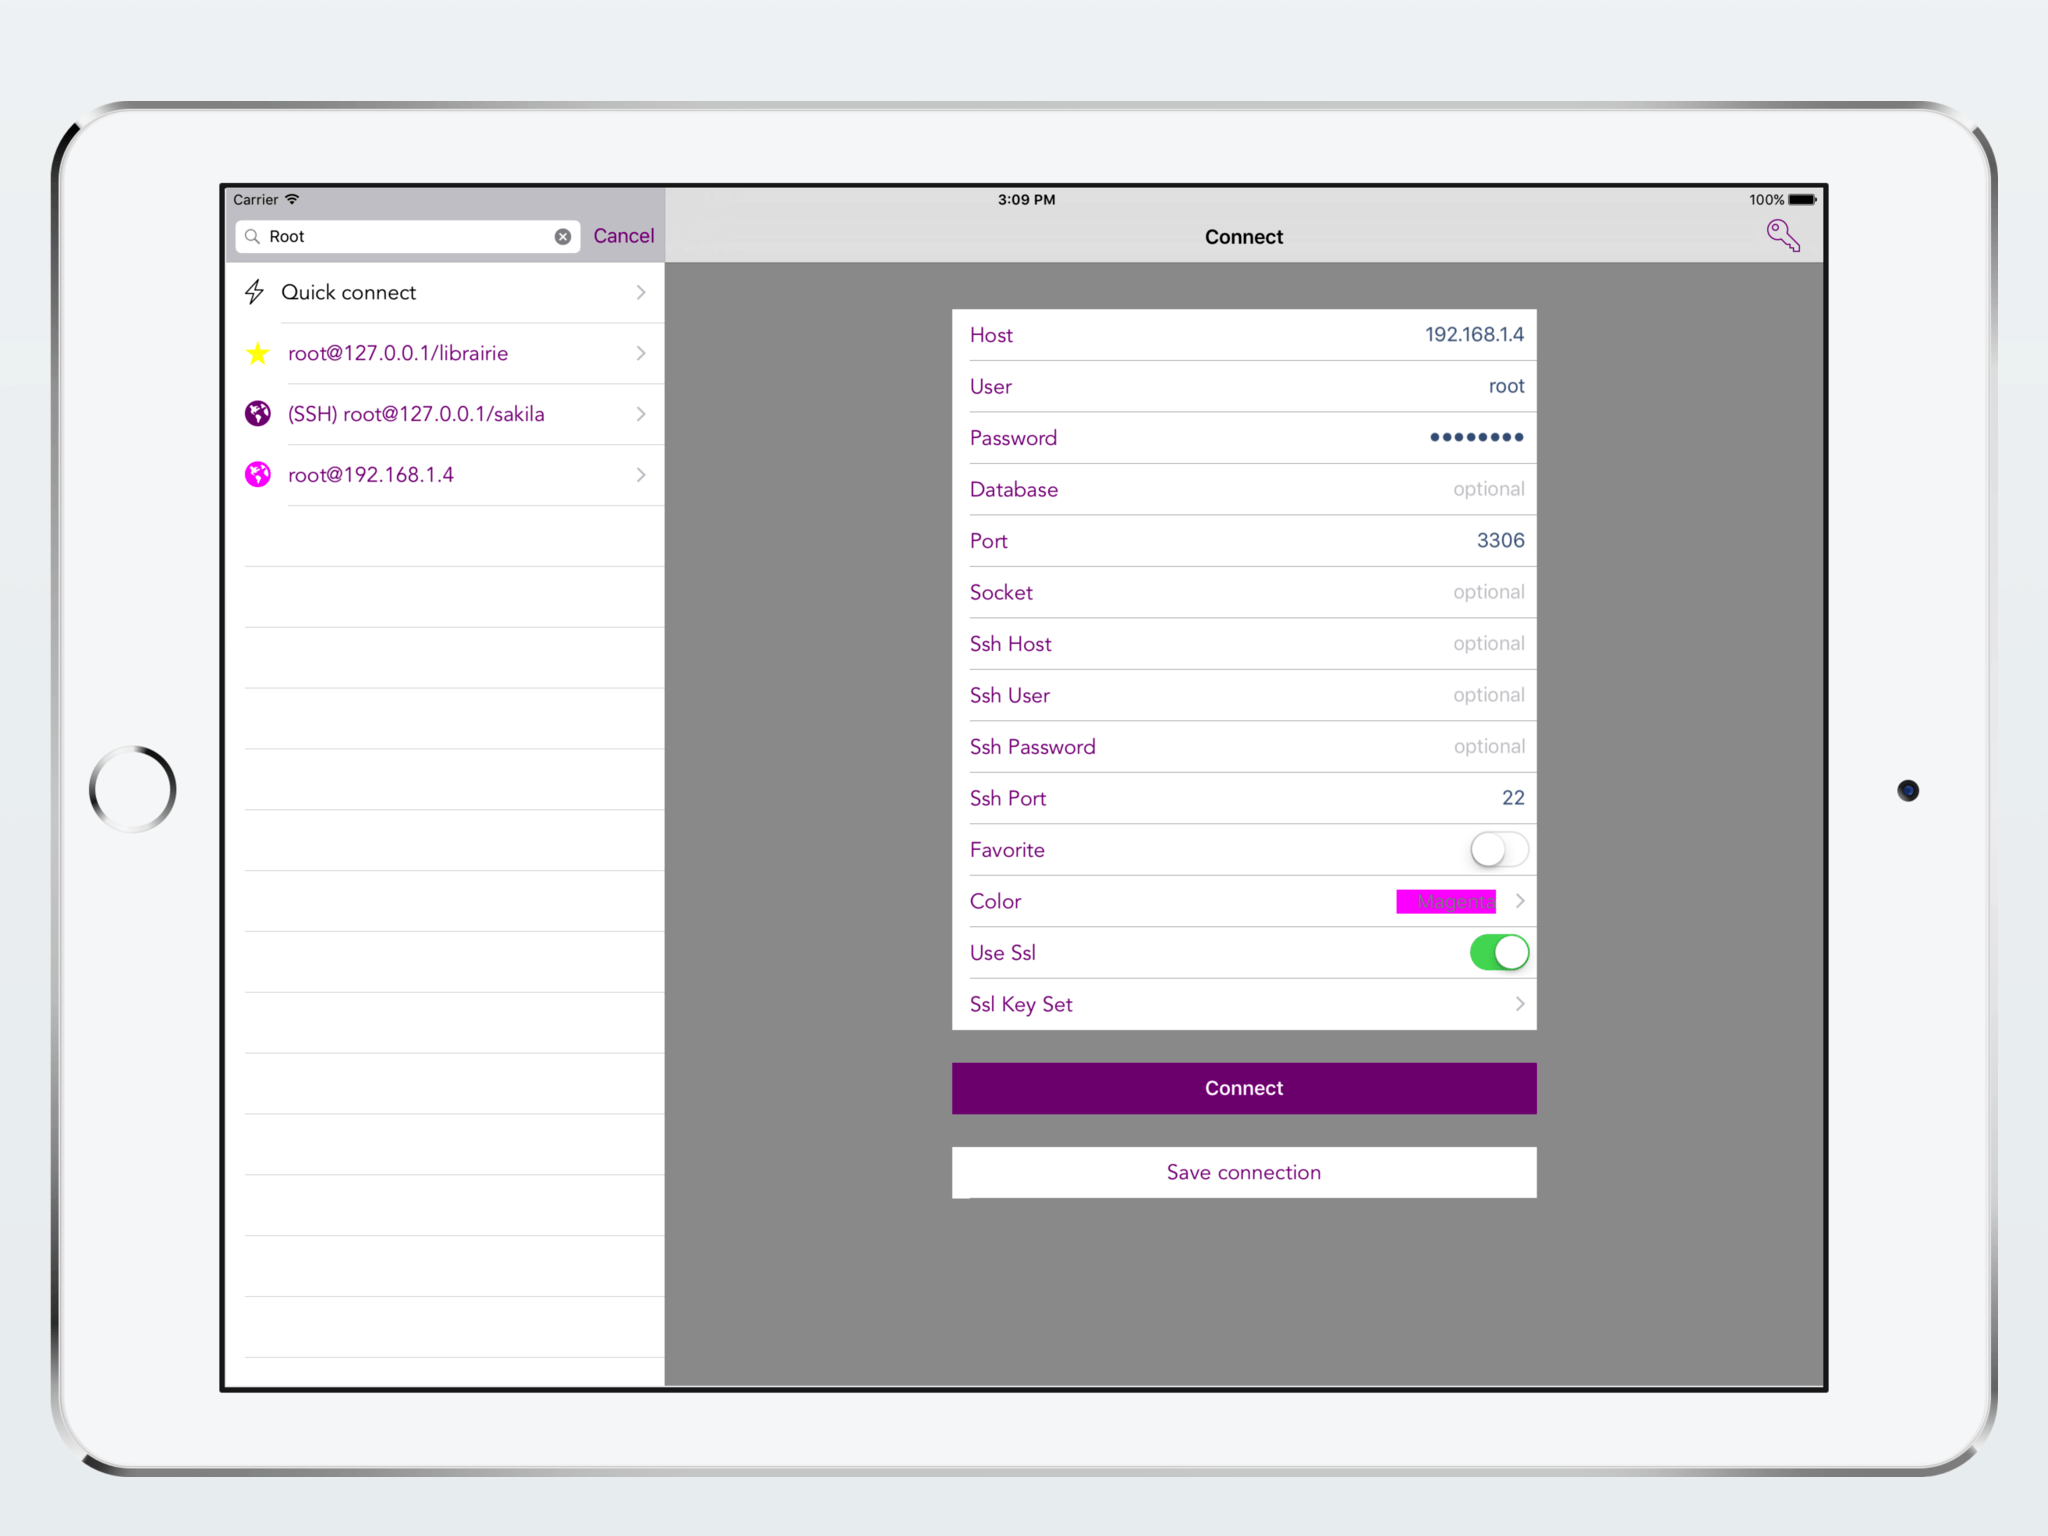
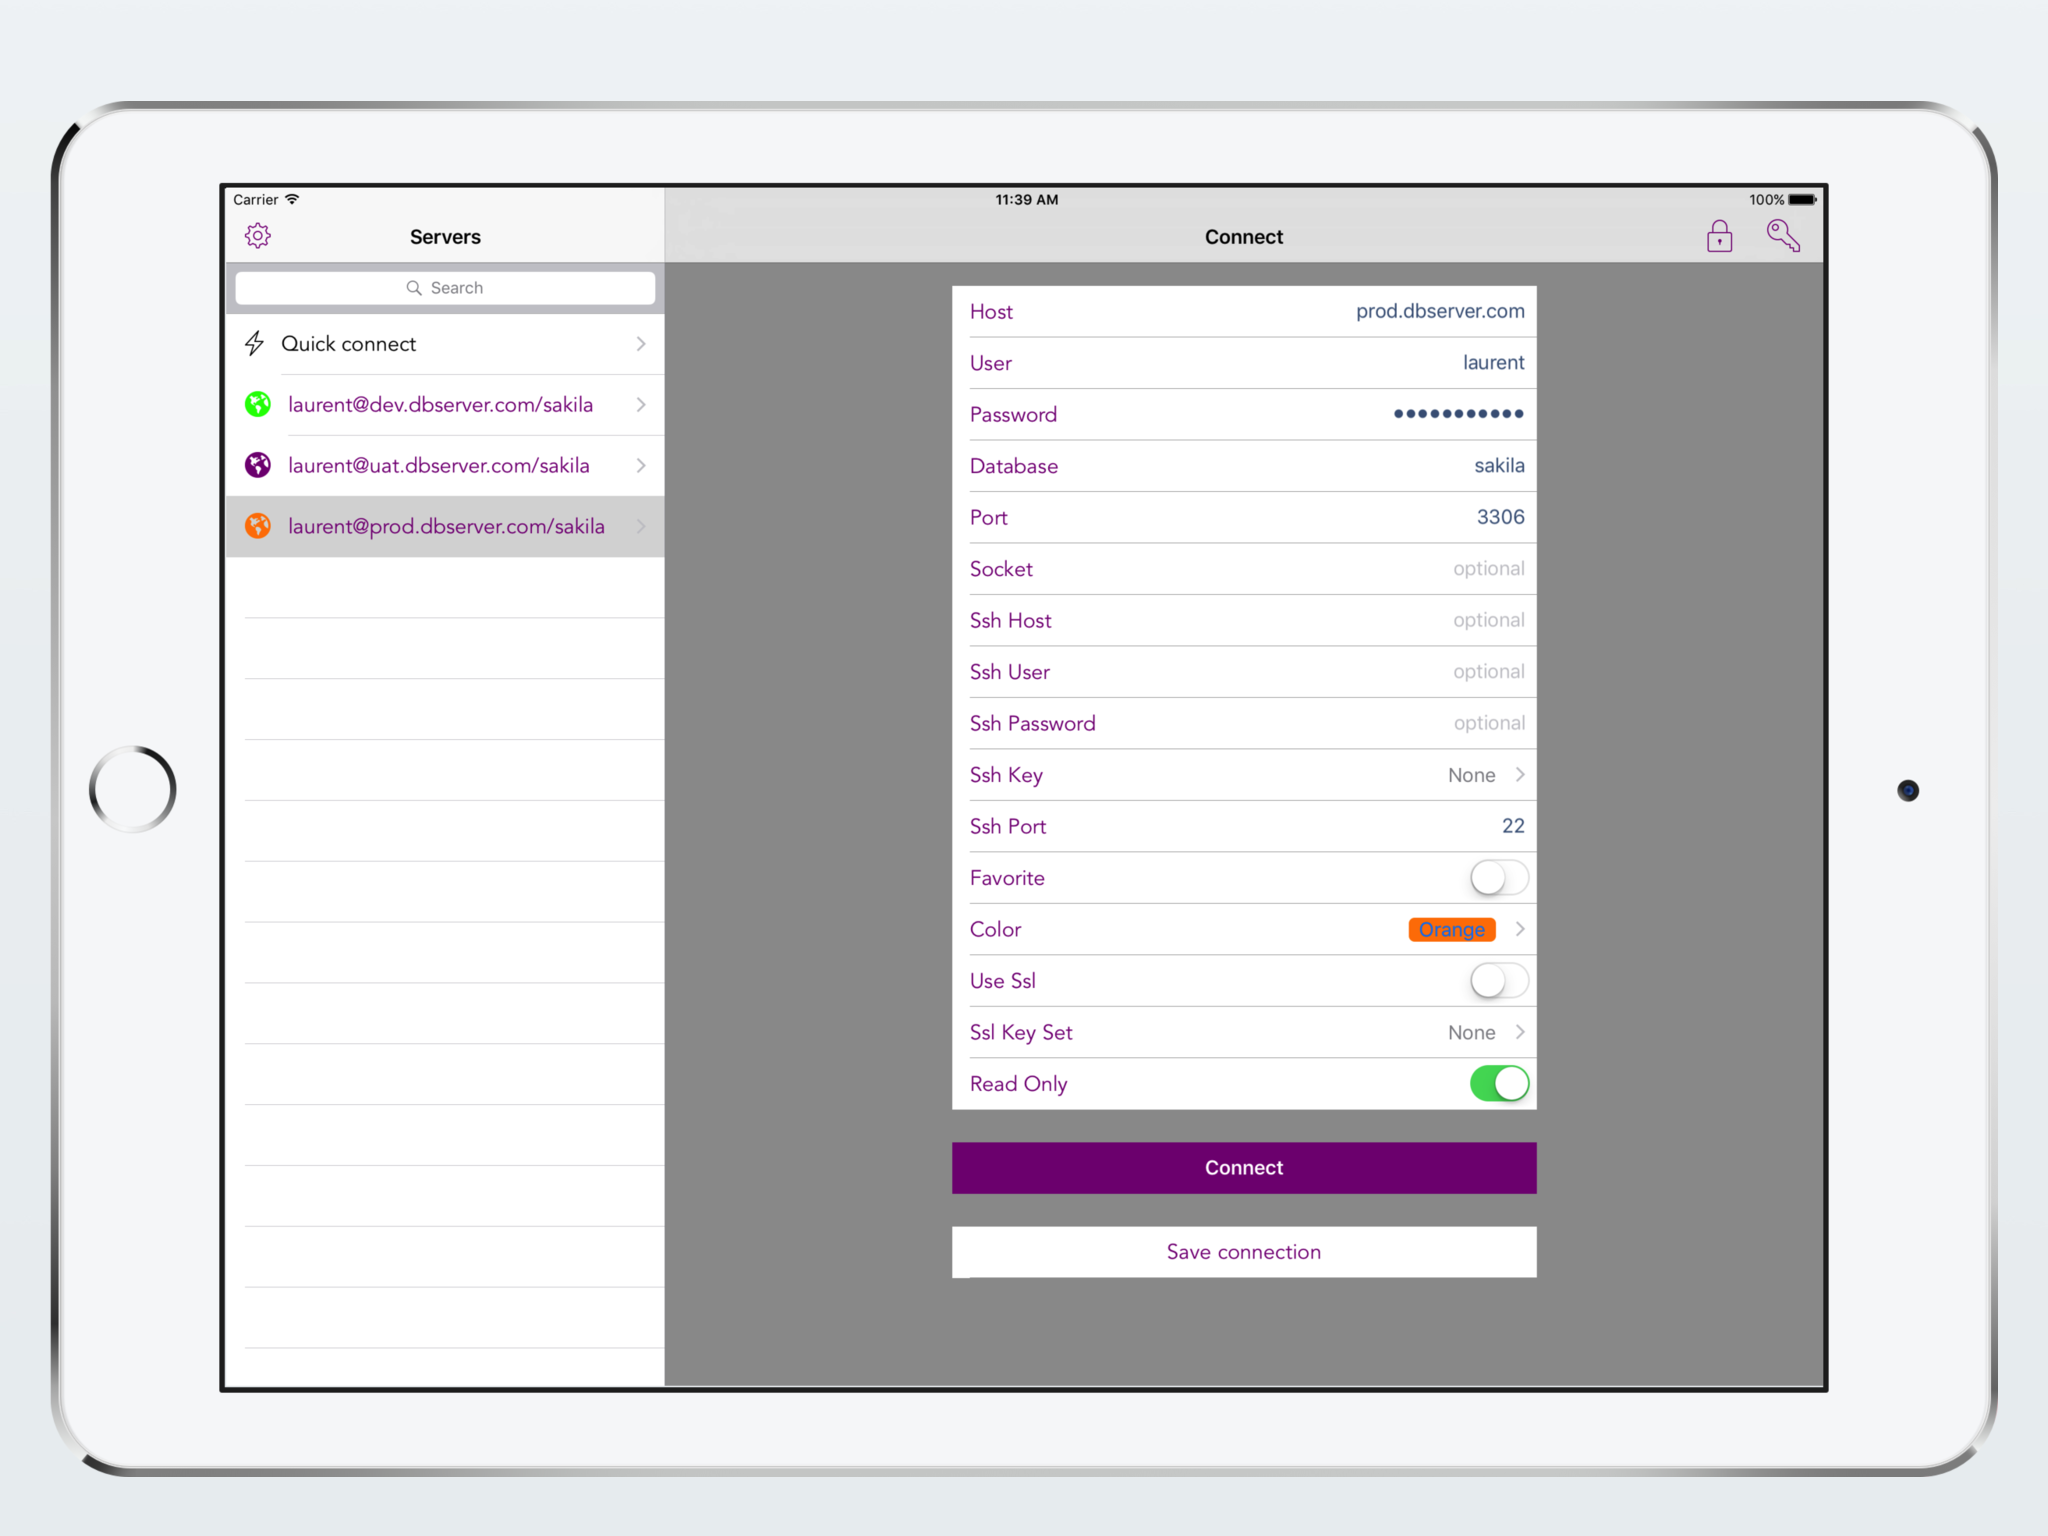
Update site for version 1.4

Changed region(s): [[0.4375, 0.1875, 0.75, 0.8438], [0.0938, 0.125, 0.3438, 0.375]]

diff --git a/_site/documentation/index.html b/_site/documentation/index.html
@@ -297,6 +297,7 @@
       <li><a href="#performance-settings" id="markdown-toc-performance-settings">Performance settings</a>        <ul>
           <li><a href="#retrieve-full-dataset" id="markdown-toc-retrieve-full-dataset">Retrieve full dataset</a></li>
           <li><a href="#rows-in-dataset" id="markdown-toc-rows-in-dataset">Rows in Dataset</a></li>
+          <li><a href="#include-all-rows-in-exports" id="markdown-toc-include-all-rows-in-exports">Include All Rows In Exports</a></li>
         </ul>
       </li>
       <li><a href="#other-settings" id="markdown-toc-other-settings">Other settings</a>        <ul>
@@ -386,6 +387,7 @@ use in front matter via: `layout: page`
       <li><em>Socket</em> should be filled only if your MySQL server is using a socket</li>
       <li><em>Favorite</em> allows you to have this connection appearing at the top of your saved connections. If the connection is not saved this setting does not do anything</li>
       <li><em>Color</em> allows you to choose a color to dinstinguish your connection. This color will appear on the icon in the connections list and in the top left of the screen in the <a href="#sql-editor">SQL Editor</a> and <a href="#db-browser-tab">DB Browser</a> panes</li>
+      <li><em>Read Only</em> allows you to create a read-only session where no object can be created, modified or dropped. It’s also not possible to update / delete / insert rows.</li>
     </ul>
 
     <p>If you want to save this connection you should then tap the <em>“Save connection”</em> button. This will put this connection in your saved connections list.</p>
@@ -399,8 +401,13 @@ use in front matter via: `layout: page`
       <li><em>Ssh Host</em> is the IP address or FQDN of the SSH server you’re trying to connect through</li>
       <li><em>Ssh User</em> is the username of the SSH server you’re trying to connect through</li>
       <li><em>Ssh Password</em> is the password of the SSH user</li>
+      <li><em>Ssh Key</em> is the RSA private key used to authenticate the SSH user. Please note that the password and the key fields must not be used at the same time. It’s either one or the other.</li>
       <li><em>Ssh Port</em> is the port of the SSH server</li>
     </ul>
+
+    <p>The SSH keys can be imported by tapping the key icon <img src="http://localhost:4000/assets/img/docs/keyset-manager.png" alt="SSH Keys manager" />. The procedure is the same as the one described for SSL certificates.</p>
+
+    <p><img class="t10 b20" src="http://localhost:4000/assets/img/docs/new_ssh_key.png" alt="New SSH key" /></p>
 
     <p>All other settings and interactions are the same as in a direct connection scenario.</p>
 
@@ -410,7 +417,7 @@ use in front matter via: `layout: page`
       <li>Flip the <em>Use SSL</em> switch to ask Commit to secure your connection with SSL</li>
     </ul>
 
-    <p>If you need to provide keys and certificates for your server, tap the key icon <img src="http://localhost:4000/assets/img/docs/keyset-manager.png" alt="KeySets manager" /> in the top left corner to invoke the KeySets manager.</p>
+    <p>If you need to provide keys and certificates for your server, tap the lockpad icon <img src="http://localhost:4000/assets/img/docs/lockpad-button.png" alt="KeySets manager" /> in the top left corner to invoke the KeySets manager.</p>
 
     <p><img class="t10 b20" src="http://localhost:4000/assets/img/docs/keysets-manager-main.png" alt="KeySets manager UI" /></p>
 
@@ -494,7 +501,11 @@ use in front matter via: `layout: page`
 
     <h4 id="rows-in-dataset">Rows in Dataset</h4>
 
-    <p>It’s the number of rows that are retrieved by the app by default. No effect if the <em>“Retrive full dataset”</em> setting is set to “ON”.</p>
+    <p>It’s the number of rows that are retrieved by the app by default. No effect if the <em>“Retreive full dataset”</em> setting is set to “ON”.</p>
+
+    <h4 id="include-all-rows-in-exports">Include All Rows In Exports</h4>
+
+    <p>When you’re exporting a dataset to another app, should all the rows be exported or only the ones currently visible in the app ?</p>
 
     <h3 id="other-settings">Other settings</h3>
 

diff --git a/_site/index.html b/_site/index.html
@@ -332,7 +332,7 @@ Commit DB is designed from the ground up for the <strong>MySQL developers and DB
 			<li class="feature"><strong>Synchronize your connections</strong> between devices with iCloud</li>
 			<li class="feature">Import files from any iOS document provider extension (Dropbox, One Drive, Google Drive …)</li>
 			<li class="feature">Export your queries to any iOS document provider extension</li>
-			<li class="feature">Export the result sets of your queries to CSV</li>
+			<li class="feature">Export the results of your queries to either CSV or JSON</li>
 		</ul>
 		<hr />
 	</li>
@@ -340,8 +340,10 @@ Commit DB is designed from the ground up for the <strong>MySQL developers and DB
 		<i class="fa fa-lock fa-li fa-4x" aria-hidden="true" style="color:red"></i>
 		<ul class="square">
 			<li class="feature">Connect to your databases directly or through a SSH tunnel</li>
+			<li class="feature">SSH connection authenticated either by password or RSA key</li>
 			<li class="feature">Secure your connections with SSL</li>
 			<li class="feature">Protect access to the app with TouchID</li>
+			<li class="feature">Make your connection read-only to avoid mistakes</li>
 		</ul>
 		<hr />
 	</li>

diff --git a/pages/documentation.md b/pages/documentation.md
@@ -41,6 +41,7 @@ use in front matter via: `layout: page`
 - *Socket* should be filled only if your MySQL server is using a socket
 - *Favorite* allows you to have this connection appearing at the top of your saved connections. If the connection is not saved this setting does not do anything
 - *Color* allows you to choose a color to dinstinguish your connection. This color will appear on the icon in the connections list and in the top left of the screen in the [SQL Editor](#sql-editor) and [DB Browser](#db-browser-tab) panes
+- *Read Only* allows you to create a read-only session where no object can be created, modified or dropped. It's also not possible to update / delete / insert rows.
 
 If you want to save this connection you should then tap the *"Save connection"* button. This will put this connection in your saved connections list.
 
@@ -53,7 +54,12 @@ Then just tap the *"Connect"* button.
 - *Ssh Host* is the IP address or FQDN of the SSH server you're trying to connect through
 - *Ssh User* is the username of the SSH server you're trying to connect through
 - *Ssh Password* is the password of the SSH user
+- *Ssh Key* is the RSA private key used to authenticate the SSH user. Please note that the password and the key fields must not be used at the same time. It's either one or the other.
 - *Ssh Port* is the port of the SSH server
+
+The SSH keys can be imported by tapping the key icon <img src="{{ site.urlimg }}docs/keyset-manager.png" alt="SSH Keys manager">. The procedure is the same as the one described for SSL certificates.
+
+<img class="t10 b20" src="{{ site.urlimg }}docs/new_ssh_key.png" alt="New SSH key">
 
 All other settings and interactions are the same as in a direct connection scenario.
 
@@ -62,7 +68,7 @@ All other settings and interactions are the same as in a direct connection scena
 
 - Flip the *Use SSL* switch to ask Commit to secure your connection with SSL
 
-If you need to provide keys and certificates for your server, tap the key icon <img src="{{ site.urlimg }}docs/keyset-manager.png" alt="KeySets manager"> in the top left corner to invoke the KeySets manager.
+If you need to provide keys and certificates for your server, tap the lockpad icon <img src="{{ site.urlimg }}docs/lockpad-button.png" alt="KeySets manager"> in the top left corner to invoke the KeySets manager.
 
 <img class="t10 b20" src="{{ site.urlimg }}docs/keysets-manager-main.png" alt="KeySets manager UI">
 
@@ -139,8 +145,11 @@ If this setting is turned to "ON" the app will fetch all the rows of any query i
 {% include alert warning='Turning this setting on may severely affect performances' %} 
 
 #### Rows in Dataset
+It's the number of rows that are retrieved by the app by default. No effect if the *"Retreive full dataset"* setting is set to "ON".
 
-It's the number of rows that are retrieved by the app by default. No effect if the *"Retrive full dataset"* setting is set to "ON".
+#### Include All Rows In Exports ####
+
+When you're exporting a dataset to another app, should all the rows be exported or only the ones currently visible in the app ?
 
 ### Other settings
 

diff --git a/pages/pages-root-folder/index.md b/pages/pages-root-folder/index.md
@@ -90,7 +90,7 @@ Commit DB is designed from the ground up for the <strong>MySQL developers and DB
 			<li class="feature"><strong>Synchronize your connections</strong> between devices with iCloud</li>
 			<li class="feature">Import files from any iOS document provider extension (Dropbox, One Drive, Google Drive …)</li>
 			<li class="feature">Export your queries to any iOS document provider extension</li>
-			<li class="feature">Export the result sets of your queries to CSV</li>
+			<li class="feature">Export the results of your queries to either CSV or JSON</li>
 		</ul>
 		<hr>
 	</li>
@@ -98,8 +98,10 @@ Commit DB is designed from the ground up for the <strong>MySQL developers and DB
 		<i class="fa fa-lock fa-li fa-4x" aria-hidden="true" style="color:red"></i>
 		<ul class="square">
 			<li class="feature">Connect to your databases directly or through a SSH tunnel</li>
+			<li class="feature">SSH connection authenticated either by password or RSA key</li>
 			<li class="feature">Secure your connections with SSL</li>
 			<li class="feature">Protect access to the app with TouchID</li>
+			<li class="feature">Make your connection read-only to avoid mistakes</li>
 		</ul>
 		<hr>
 	</li>
